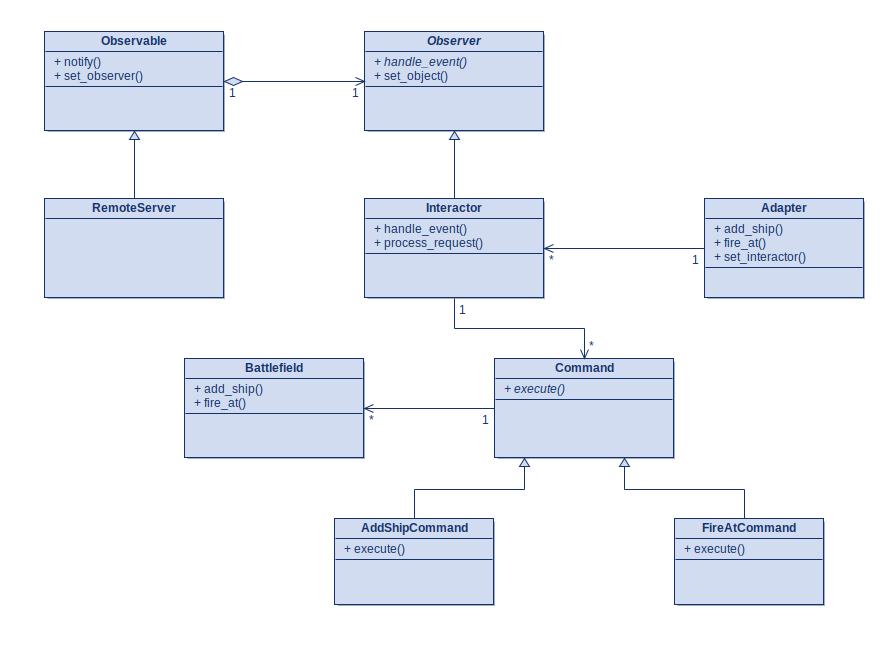
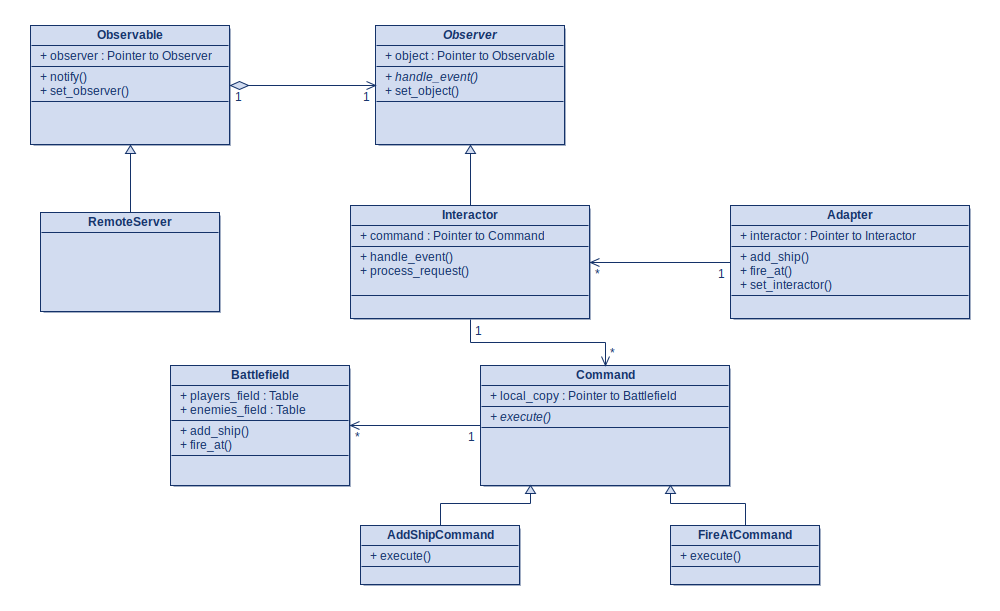
fill class UML and delete extra includes

Changed region(s): [[0.0304, 0.0311, 0.973, 0.964], [0.6689, 0.7774, 0.9426, 0.964]]

diff --git a/include/connection/Interactor.h b/include/connection/Interactor.h
@@ -1,7 +1,6 @@
 #pragma once
 
 #include "ObserverSystem.h"
-#include "RemoteServer.h"
 #include "../command/Command.h"
 #include <initializer_list>
 #include <string>
@@ -13,6 +12,5 @@ class Interactor : public Observer {
   std::string process_request(std::initializer_list<int>);
 
  private:
-  RemoteServer* connection_;
   Command* command_;
 };
